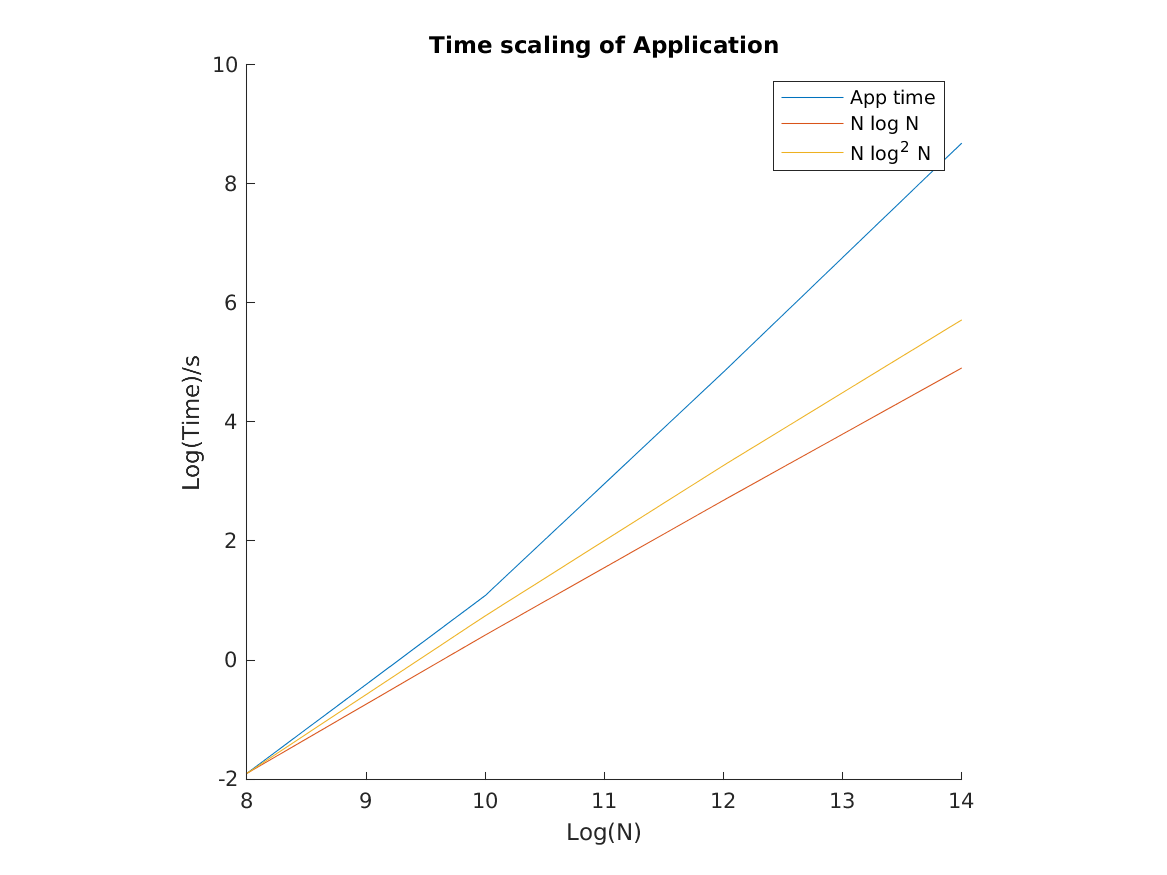
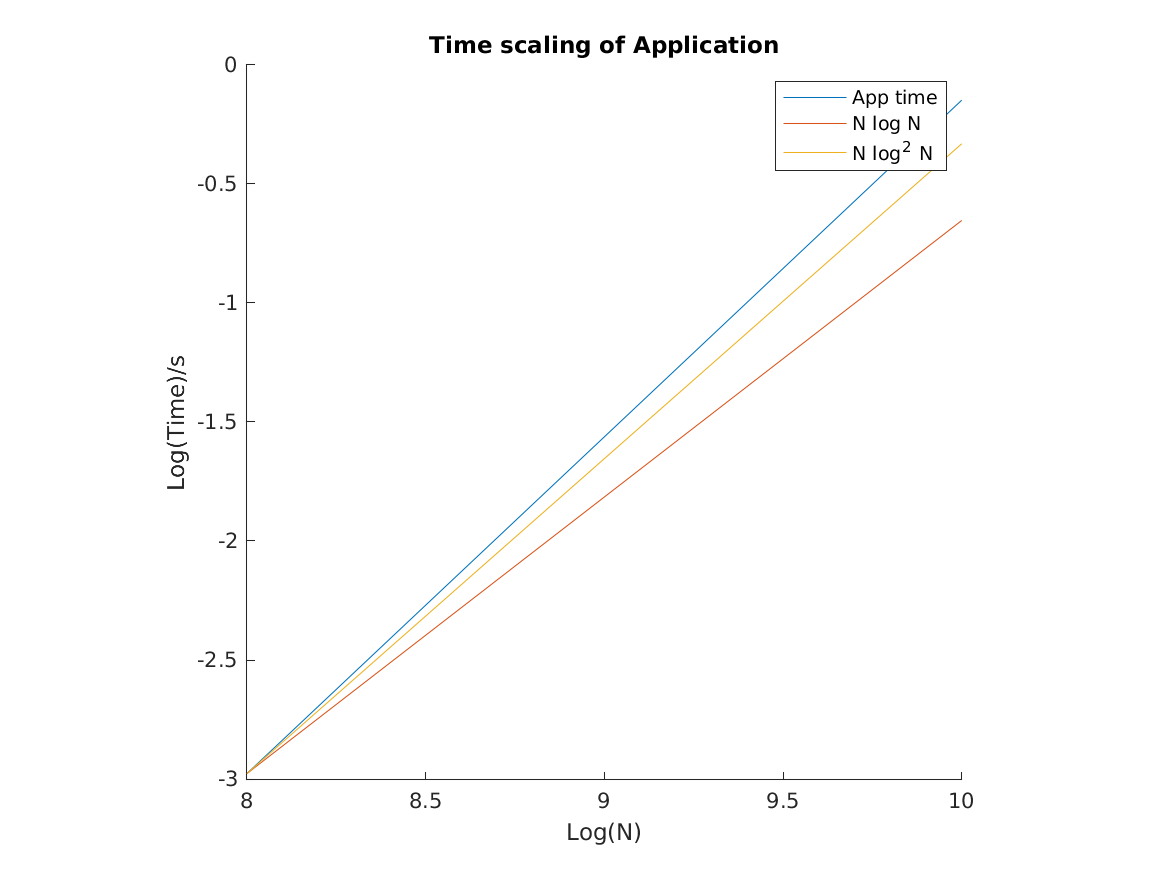
add rank

diff --git a/FIOs_inverse.m b/FIOs_inverse.m
@@ -4,15 +4,15 @@ clear all;
 startup;
 
 tol = 1e-13
-func_name = 'fun5'
+func_name = 'fun4'
 occ = 64;
-rank_or_tol = 1e-12
+rank_or_tol = 1e-4
 repeat_num = 5;
 n0 = 8;
 tt = 5;
 rand_or_cheb = 'rand';
 
-dims = [4:7]
+dims = [4:5]
 cases = length(dims);
 apptime = zeros(cases, 1);
 soltime = zeros(cases, 1);
@@ -21,6 +21,7 @@ solerr = zeros(cases, 1);
 condAs = zeros(cases, 1);
 condATAs = zeros(cases, 1);
 bferr = zeros(cases, 1);
+ranks = zeros(cases, 1);
 for i = 1:cases
     ii = dims(i);
     N = 2^(2*ii);
@@ -29,6 +30,7 @@ for i = 1:cases
     rk = 15*ii;
     k = -N/2:N/2-1;
     kk = k(:);
+    %rank_or_tol = 4*2^ii    
 
     x = (0:N-1)/N;
     xx = x(:);
@@ -72,12 +74,12 @@ for i = 1:cases
     condATAs(i) = condATA;
     
     A1 = fun(xx, kk);
-    %ATA1 = A1'*A1;
+    ATA1 = A1'*A1;
 
     condA1 = condest(A1);
-    %condATA1 = condest(ATA1);
+    condATA1 = condest(ATA1);
     fprintf('condition number estimation of A1  : %10.4e \n', condA1)
-    %fprintf('condition number estimation of ATA1: %10.4e \n', condATA1)
+    fprintf('condition number estimation of ATA1: %10.4e \n', condATA1)
     
     randx = rand(N, 1);
     bfacc = norm(A*randx-A1*randx)/norm(A1*randx);
@@ -90,7 +92,10 @@ for i = 1:cases
     [x1,x2] = ndgrid((1:n)/n); 
     x = [x1(:) x2(:)]'; 
 
-    F = hifie2my(Afun,x,occ,rank_or_tol);
+    [F, rank] = hifie2my(Afun,x,occ,rank_or_tol);
+
+    fprintf('rank of hif: %6d \n', rank)
+    ranks(i) = rank;
 
     err = snorm(N,@(x)(ATA*x - hifie_mv(F,x)),[],[],1,128);
     err = err/snorm(N,@(x)(ATA*x),[],[],1, 128);
@@ -162,8 +167,8 @@ hold off;
 saveas(fig, "solerr_"+ func_name + ".png");
 
 fig = figure(5);
-h = zeros(1);
-h(1) = plot(logN, log10(condAs)); hold on;
+hold on;
+h(1) = plot(logN, log10(condAs));
 xlabel('Log(N)');
 ylabel('Log10(cond num)'); 
 title('Condition numbers');
@@ -190,5 +195,18 @@ title('Error of BF');
 hold off;
 % legend(h, 'App time', 'N log N', 'N log^2 N');
 saveas(fig, "bferr_"+ func_name + ".png");
+
+
+fig = figure(8);
+hold on;
+h(1) = plot(logN, log2(ranks));
+h(2) = plot(logN, 0.5*logN-0.5*logN(1)+log2(ranks(1)));
+h(3) = plot(logN, log2(logN)-log2(logN(1))+log2(ranks(1)));
+xlabel('Log(N)');
+ylabel('Log2(rank)'); 
+title('Rank');
+hold off;
+legend(h, 'rank', 'sqrt(N)', 'log N');
+saveas(fig, "rank_"+ func_name + ".png");
 
 exit

diff --git a/FLAM/hifie/base/hifie2_base.m b/FLAM/hifie/base/hifie2_base.m
@@ -1,6 +1,6 @@
 % HIFIE2_BASE  Dispatch for HIFIE2 and HIFIE2X.
 
-function F = hifie2_base(A,x,occ,rank_or_tol,idfun,pxyfun,opts)
+function [F, maxrank] = hifie2_base(A,x,occ,rank_or_tol,idfun,pxyfun,opts)
 
   % set default parameters
   if nargin < 6, pxyfun = []; end
@@ -63,6 +63,7 @@ function F = hifie2_base(A,x,occ,rank_or_tol,idfun,pxyfun,opts)
   P = zeros(N,1);   % for indexing
 
   % loop over tree levels
+  maxrank = 0;
   for lvl = t.nlvl:-1:1
     l = t.l(:,lvl);
     nbox = t.lvp(lvl+1) - t.lvp(lvl);
@@ -206,6 +207,8 @@ function F = hifie2_base(A,x,occ,rank_or_tol,idfun,pxyfun,opts)
         if opts.symm == 'n', K2 = [K2; spget(M,slf,nbr)']; end
         K = [K1 + K2; Kpxy];
         [sk,rd,T] = idfun(K,K1,K2,rank_or_tol,opts.Tmax,opts.rrqr_iter);
+	%disp(length(sk))
+        maxrank = max(maxrank, length(sk));
 
         % restrict to skeletons for next level
         if d == 2

diff --git a/FLAM/hifie/hifie2my.m b/FLAM/hifie/hifie2my.m
@@ -1,3 +1,3 @@
-function F = hifie2my(A,x,occ,rank_or_tol)
-  F = hifie2_base(A,x,occ,rank_or_tol,@hifie_id);
+function [F, rank] = hifie2my(A,x,occ,rank_or_tol)
+  [F, rank] = hifie2_base(A,x,occ,rank_or_tol,@hifie_id);
 end
